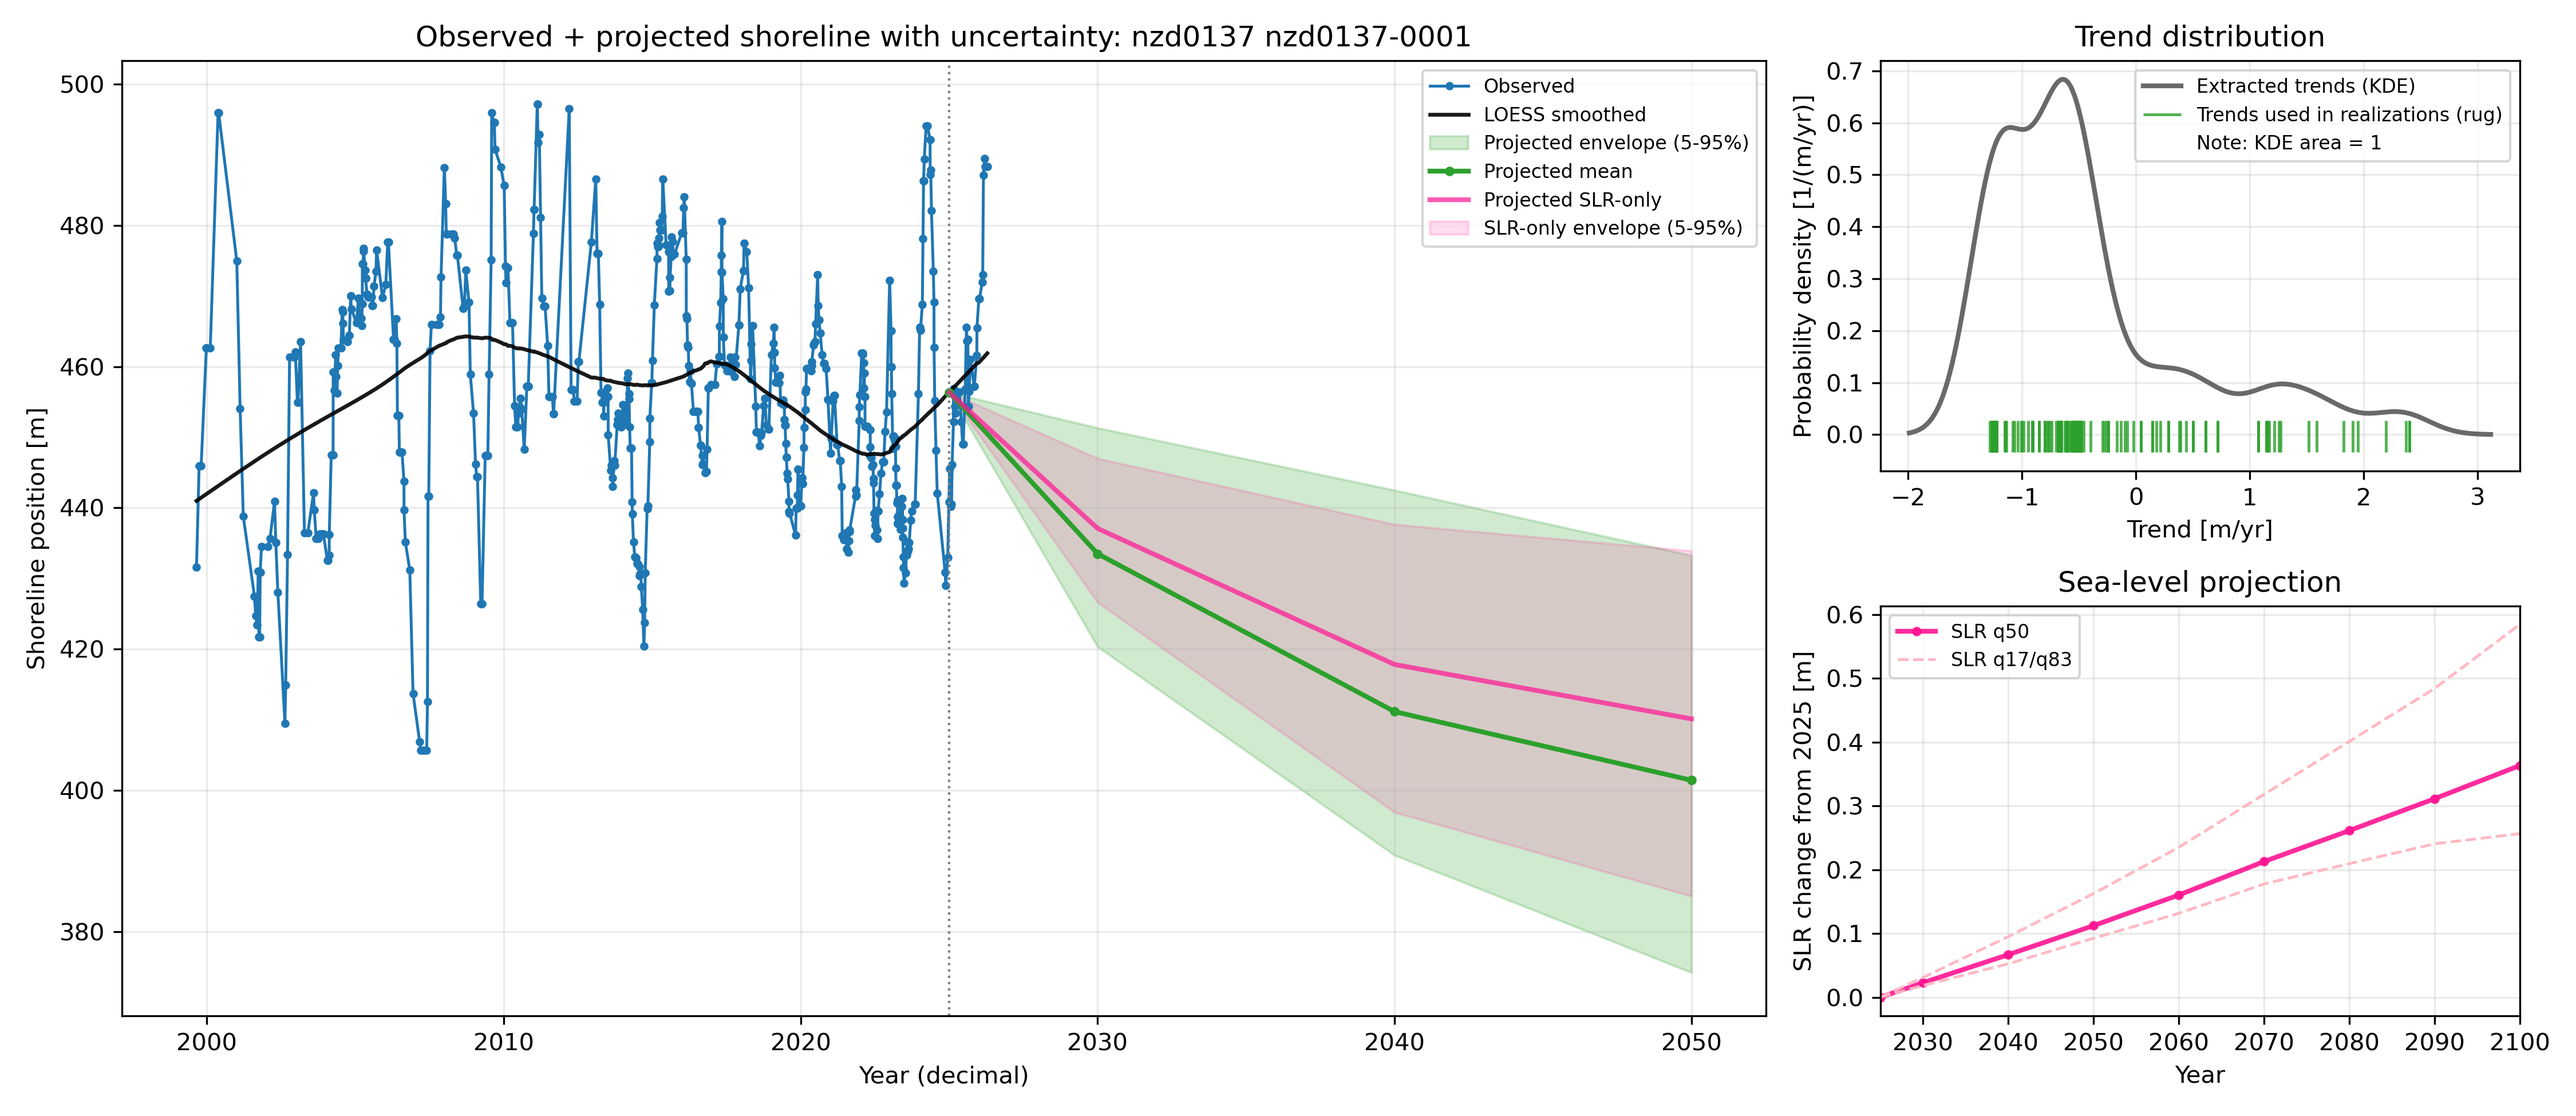
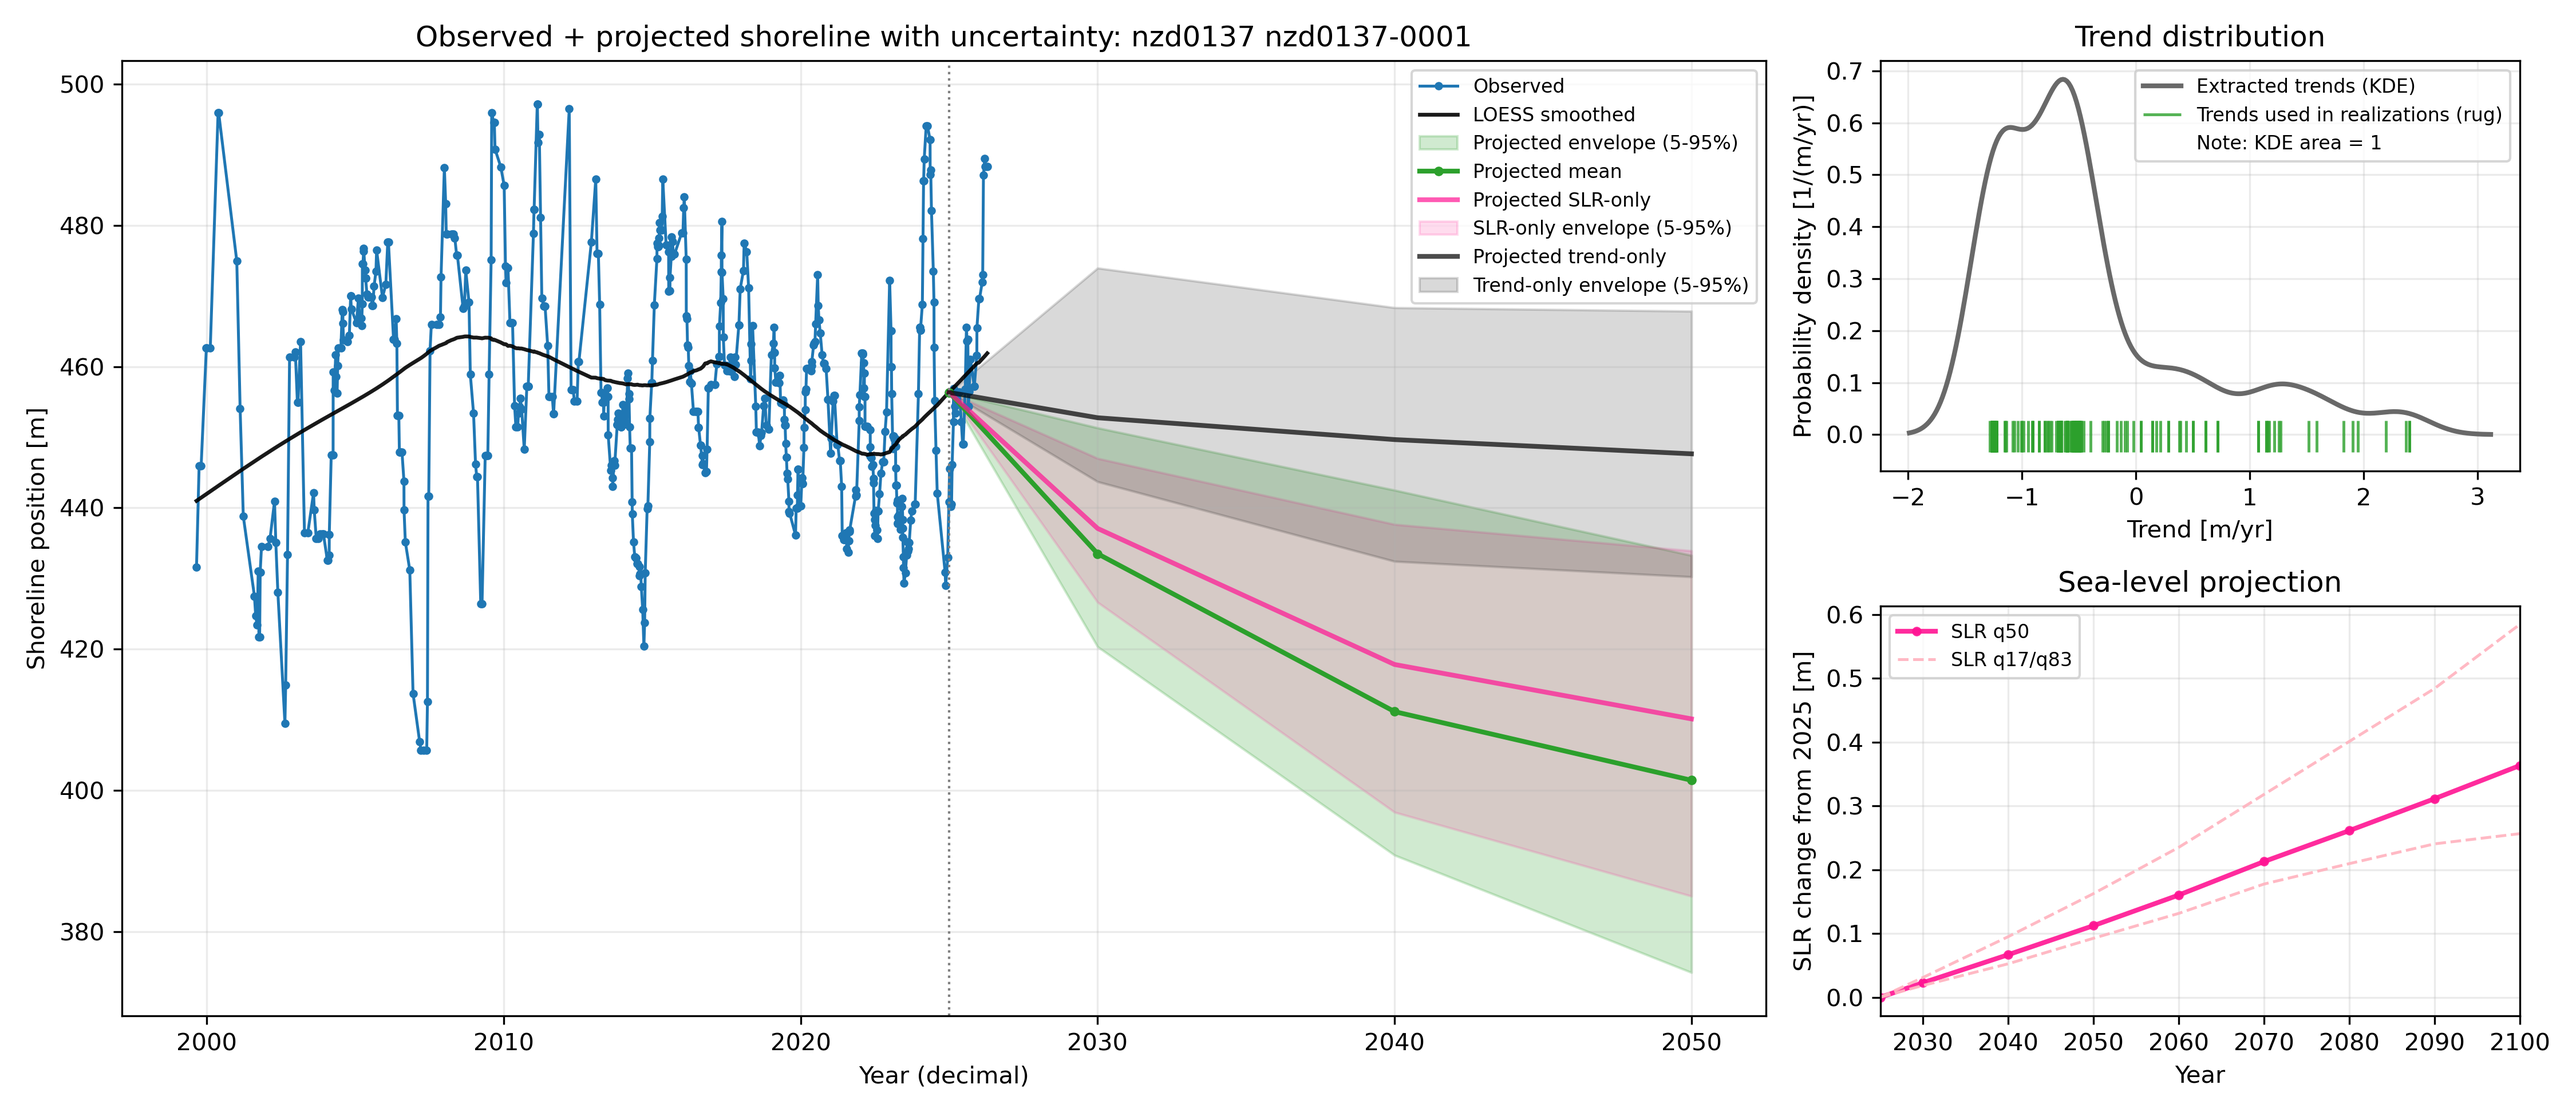
only trend component viz

Changed region(s): [[0.3733, 0.0615, 0.6844, 0.5231]]

diff --git a/viz.py b/viz.py
@@ -21,6 +21,7 @@ def prepare_observed_and_projected_single_run_data(
     y_loess,
     trend_pool,
     slr_only_dy_segments,
+    trend_only_dy_segments,
 ):
     """Validate and prepare arrays used by the shoreline projection plot.
 
@@ -64,6 +65,9 @@ def prepare_observed_and_projected_single_run_data(
     slr_only_dy_segments : array-like or None
         Optional SLR-only shoreline change per segment [m] with the same shape
         as ``dy_segments``.
+    trend_only_dy_segments : array-like or None
+        Optional trend-only shoreline change per segment [m] (no SLR
+        contribution) with the same shape as ``dy_segments``.
 
     Returns
     -------
@@ -91,6 +95,8 @@ def prepare_observed_and_projected_single_run_data(
         trend_pool = trend_pool[np.isfinite(trend_pool)]
     if slr_only_dy_segments is not None:
         slr_only_dy_segments = np.asarray(slr_only_dy_segments, dtype=float)
+    if trend_only_dy_segments is not None:
+        trend_only_dy_segments = np.asarray(trend_only_dy_segments, dtype=float)
 
     if t_obs.size == 0 or y_obs.size == 0:
         raise ValueError("Observed time series is empty.")
@@ -129,6 +135,17 @@ def prepare_observed_and_projected_single_run_data(
             raise ValueError("slr_only_dy_segments must have the same shape as dy_segments.")
     else:
         slr_only_matrix = None
+    if trend_only_dy_segments is not None:
+        if trend_only_dy_segments.ndim == 1:
+            trend_only_matrix = trend_only_dy_segments[np.newaxis, :]
+        elif trend_only_dy_segments.ndim == 2:
+            trend_only_matrix = trend_only_dy_segments
+        else:
+            raise ValueError("trend_only_dy_segments must be a 1D or 2D array.")
+        if trend_only_matrix.shape != dy_matrix.shape:
+            raise ValueError("trend_only_dy_segments must have the same shape as dy_segments.")
+    else:
+        trend_only_matrix = None
     if slr_years.size != slr_q17_values.size:
         raise ValueError("slr_years and slr_q17_values must have the same length.")
     if slr_years.size != slr_q50_values.size:
@@ -182,6 +199,8 @@ def prepare_observed_and_projected_single_run_data(
     proj_shoreline_q95 = np.quantile(proj_shoreline_all, 0.95, axis=0)
 
     slr_only_shoreline_mean = None
+    slr_only_shoreline_q05 = None
+    slr_only_shoreline_q95 = None
     if slr_only_matrix is not None:
         slr_only_cum = np.cumsum(slr_only_matrix, axis=1)
         slr_only_shoreline_all = baseline_y + np.concatenate(
@@ -191,6 +210,19 @@ def prepare_observed_and_projected_single_run_data(
         slr_only_shoreline_mean = np.mean(slr_only_shoreline_all, axis=0)
         slr_only_shoreline_q05 = np.quantile(slr_only_shoreline_all, 0.05, axis=0)
         slr_only_shoreline_q95 = np.quantile(slr_only_shoreline_all, 0.95, axis=0)
+
+    trend_only_shoreline_mean = None
+    trend_only_shoreline_q05 = None
+    trend_only_shoreline_q95 = None
+    if trend_only_matrix is not None:
+        trend_only_cum = np.cumsum(trend_only_matrix, axis=1)
+        trend_only_shoreline_all = baseline_y + np.concatenate(
+            [np.zeros((trend_only_matrix.shape[0], 1)), trend_only_cum],
+            axis=1,
+        )
+        trend_only_shoreline_mean = np.mean(trend_only_shoreline_all, axis=0)
+        trend_only_shoreline_q05 = np.quantile(trend_only_shoreline_all, 0.05, axis=0)
+        trend_only_shoreline_q95 = np.quantile(trend_only_shoreline_all, 0.95, axis=0)
 
     if slr_years.size > 0:
         slr_order = np.argsort(slr_years)
@@ -232,6 +264,9 @@ def prepare_observed_and_projected_single_run_data(
         "slr_only_shoreline_mean": slr_only_shoreline_mean,
         "slr_only_shoreline_q05": slr_only_shoreline_q05,
         "slr_only_shoreline_q95": slr_only_shoreline_q95,
+        "trend_only_shoreline_mean": trend_only_shoreline_mean,
+        "trend_only_shoreline_q05": trend_only_shoreline_q05,
+        "trend_only_shoreline_q95": trend_only_shoreline_q95,
         "t_loess": t_loess,
         "y_loess": y_loess,
         "is_ensemble": bool(dy_matrix.shape[0] > 1),
@@ -263,6 +298,9 @@ def plot_observed_and_projected_single_run_from_processed(
     slr_only_shoreline_mean = prepared["slr_only_shoreline_mean"]
     slr_only_shoreline_q05 = prepared["slr_only_shoreline_q05"]
     slr_only_shoreline_q95 = prepared["slr_only_shoreline_q95"]
+    trend_only_shoreline_mean = prepared["trend_only_shoreline_mean"]
+    trend_only_shoreline_q05 = prepared["trend_only_shoreline_q05"]
+    trend_only_shoreline_q95 = prepared["trend_only_shoreline_q95"]
     t_loess = prepared["t_loess"]
     y_loess = prepared["y_loess"]
     is_ensemble = prepared["is_ensemble"]
@@ -343,6 +381,24 @@ def plot_observed_and_projected_single_run_from_processed(
             color="deeppink",
             alpha=0.15,
             label="SLR-only envelope (5-95%)",
+        )
+
+    if trend_only_shoreline_mean is not None:
+        ax.plot(
+            proj_years,
+            trend_only_shoreline_mean,
+            color="black",
+            linewidth=2.0,
+            alpha=0.7,
+            label="Projected trend-only",
+        )
+        ax.fill_between(
+            proj_years,
+            trend_only_shoreline_q05,
+            trend_only_shoreline_q95,
+            color="black",
+            alpha=0.15,
+            label="Trend-only envelope (5-95%)",
         )
 
     if slr_years.size > 0:
@@ -463,6 +519,7 @@ def plot_observed_and_projected_single_run(
     y_loess,
     trend_pool,
     slr_only_dy_segments,
+    trend_only_dy_segments,
 ):
     """Plot observed shoreline and projected trajectories.
 
@@ -488,6 +545,7 @@ def plot_observed_and_projected_single_run(
         y_loess=y_loess,
         trend_pool=trend_pool,
         slr_only_dy_segments=slr_only_dy_segments,
+        trend_only_dy_segments=trend_only_dy_segments,
     )
     plot_observed_and_projected_single_run_from_processed(
         prepared=prepared,

diff --git a/trend_uncertainty.py b/trend_uncertainty.py
@@ -269,6 +269,7 @@ def mc_shoreline_change(
     return_delta_s_samples=True,
     return_r_segment_samples=True,
     return_slr_segment_samples=False,
+    return_trend_segment_samples=False,
 ):
     """
     Monte Carlo propagation for shoreline change using an
@@ -294,6 +295,8 @@ def mc_shoreline_change(
             time segment (useful for single-run diagnostics)
         - return_slr_segment_samples: if True, also return the SLR-only shoreline
             change component per segment for each realization
+        - return_trend_segment_samples: if True, also return the trend-only shoreline
+            change component per segment for each realization (i.e., without SLR contribution)
 
     Uncertainty sources:
     - Trend rate r_samples (from bootstrap)
@@ -377,6 +380,11 @@ def mc_shoreline_change(
         slr_rem = bases * remainder / dt
         slr_dy = np.concatenate([slr_dy, slr_rem[:, np.newaxis]], axis=1)
 
+    # Trend-only shoreline change per segment (no SLR contribution).
+    trend_dy = sampled_r_segs * segment_years
+    if remainder > 0:
+        trend_dy = np.concatenate([trend_dy, (sampled_r_rem * remainder)[:, np.newaxis]], axis=1)
+
     # Total 75-year change used for summary statistics
     dy_total = dy.sum(axis=1)                                  # (n,)
 
@@ -409,6 +417,8 @@ def mc_shoreline_change(
         outputs.append(sampled_r_all)
     if return_slr_segment_samples:
         outputs.append(slr_dy)
+    if return_trend_segment_samples:
+        outputs.append(trend_dy)
 
     return tuple(outputs)
 
@@ -510,10 +520,10 @@ for site_id in nzd_sites_trial:
         if c.startswith(site_id + "-")
     ]
     
-    # transect_trials=transect_cols[3:4] #Try only 3 transects first
+    transect_trials=transect_cols[0:11] #Try only 1 transect first
 
-    # for transect_id in transect_trials:
-    for transect_id in transect_cols:
+    for transect_id in transect_trials:
+    # for transect_id in transect_cols:
 
         # Extract shoreline position for this transect
         y = df[transect_id]
@@ -731,9 +741,10 @@ for site_id in nzd_sites_trial:
             return_delta_s_samples=True,
             return_r_segment_samples=True,
             return_slr_segment_samples=True,
+            return_trend_segment_samples=True,
             )
         
-        dy, summ, sampled_delta_s, sampled_r_all, sampled_slr_dy = mc_result
+        dy, summ, sampled_delta_s, sampled_r_all, sampled_slr_dy, sampled_trend_dy = mc_result
 
         # Store results
         dy_rows.append({
@@ -762,6 +773,7 @@ for site_id in nzd_sites_trial:
         preview_dy = np.asarray(dy, dtype=float)
         preview_r_samples = np.asarray(sampled_r_all, dtype=float)
         preview_slr_only_dy = np.asarray(sampled_slr_dy, dtype=float)
+        preview_trend_only_dy = np.asarray(sampled_trend_dy, dtype=float)
 
         preview_segment_years = loess_window  # Match the Monte Carlo 
         # segment length to the LOESS window for interpretability
@@ -775,6 +787,8 @@ for site_id in nzd_sites_trial:
             raise ValueError("Preview r samples and dy segments must have matching shapes.")
         if preview_slr_only_dy.shape != preview_dy.shape:
             raise ValueError("Preview SLR-only segments and dy segments must have matching shapes.")
+        if preview_trend_only_dy.shape != preview_dy.shape:
+            raise ValueError("Preview trend-only segments and dy segments must have matching shapes.")
 
         preview_ts_plot_fp = site_dir / f"{site_id}_{transect_id}_single_run_observed_projected.png"
         
@@ -798,6 +812,7 @@ for site_id in nzd_sites_trial:
             out_fp=preview_ts_plot_fp,
             trend_pool=boot_slopes,
             slr_only_dy_segments=preview_slr_only_dy,
+            trend_only_dy_segments=preview_trend_only_dy,
         )
 
         print(site_id, transect_id)
